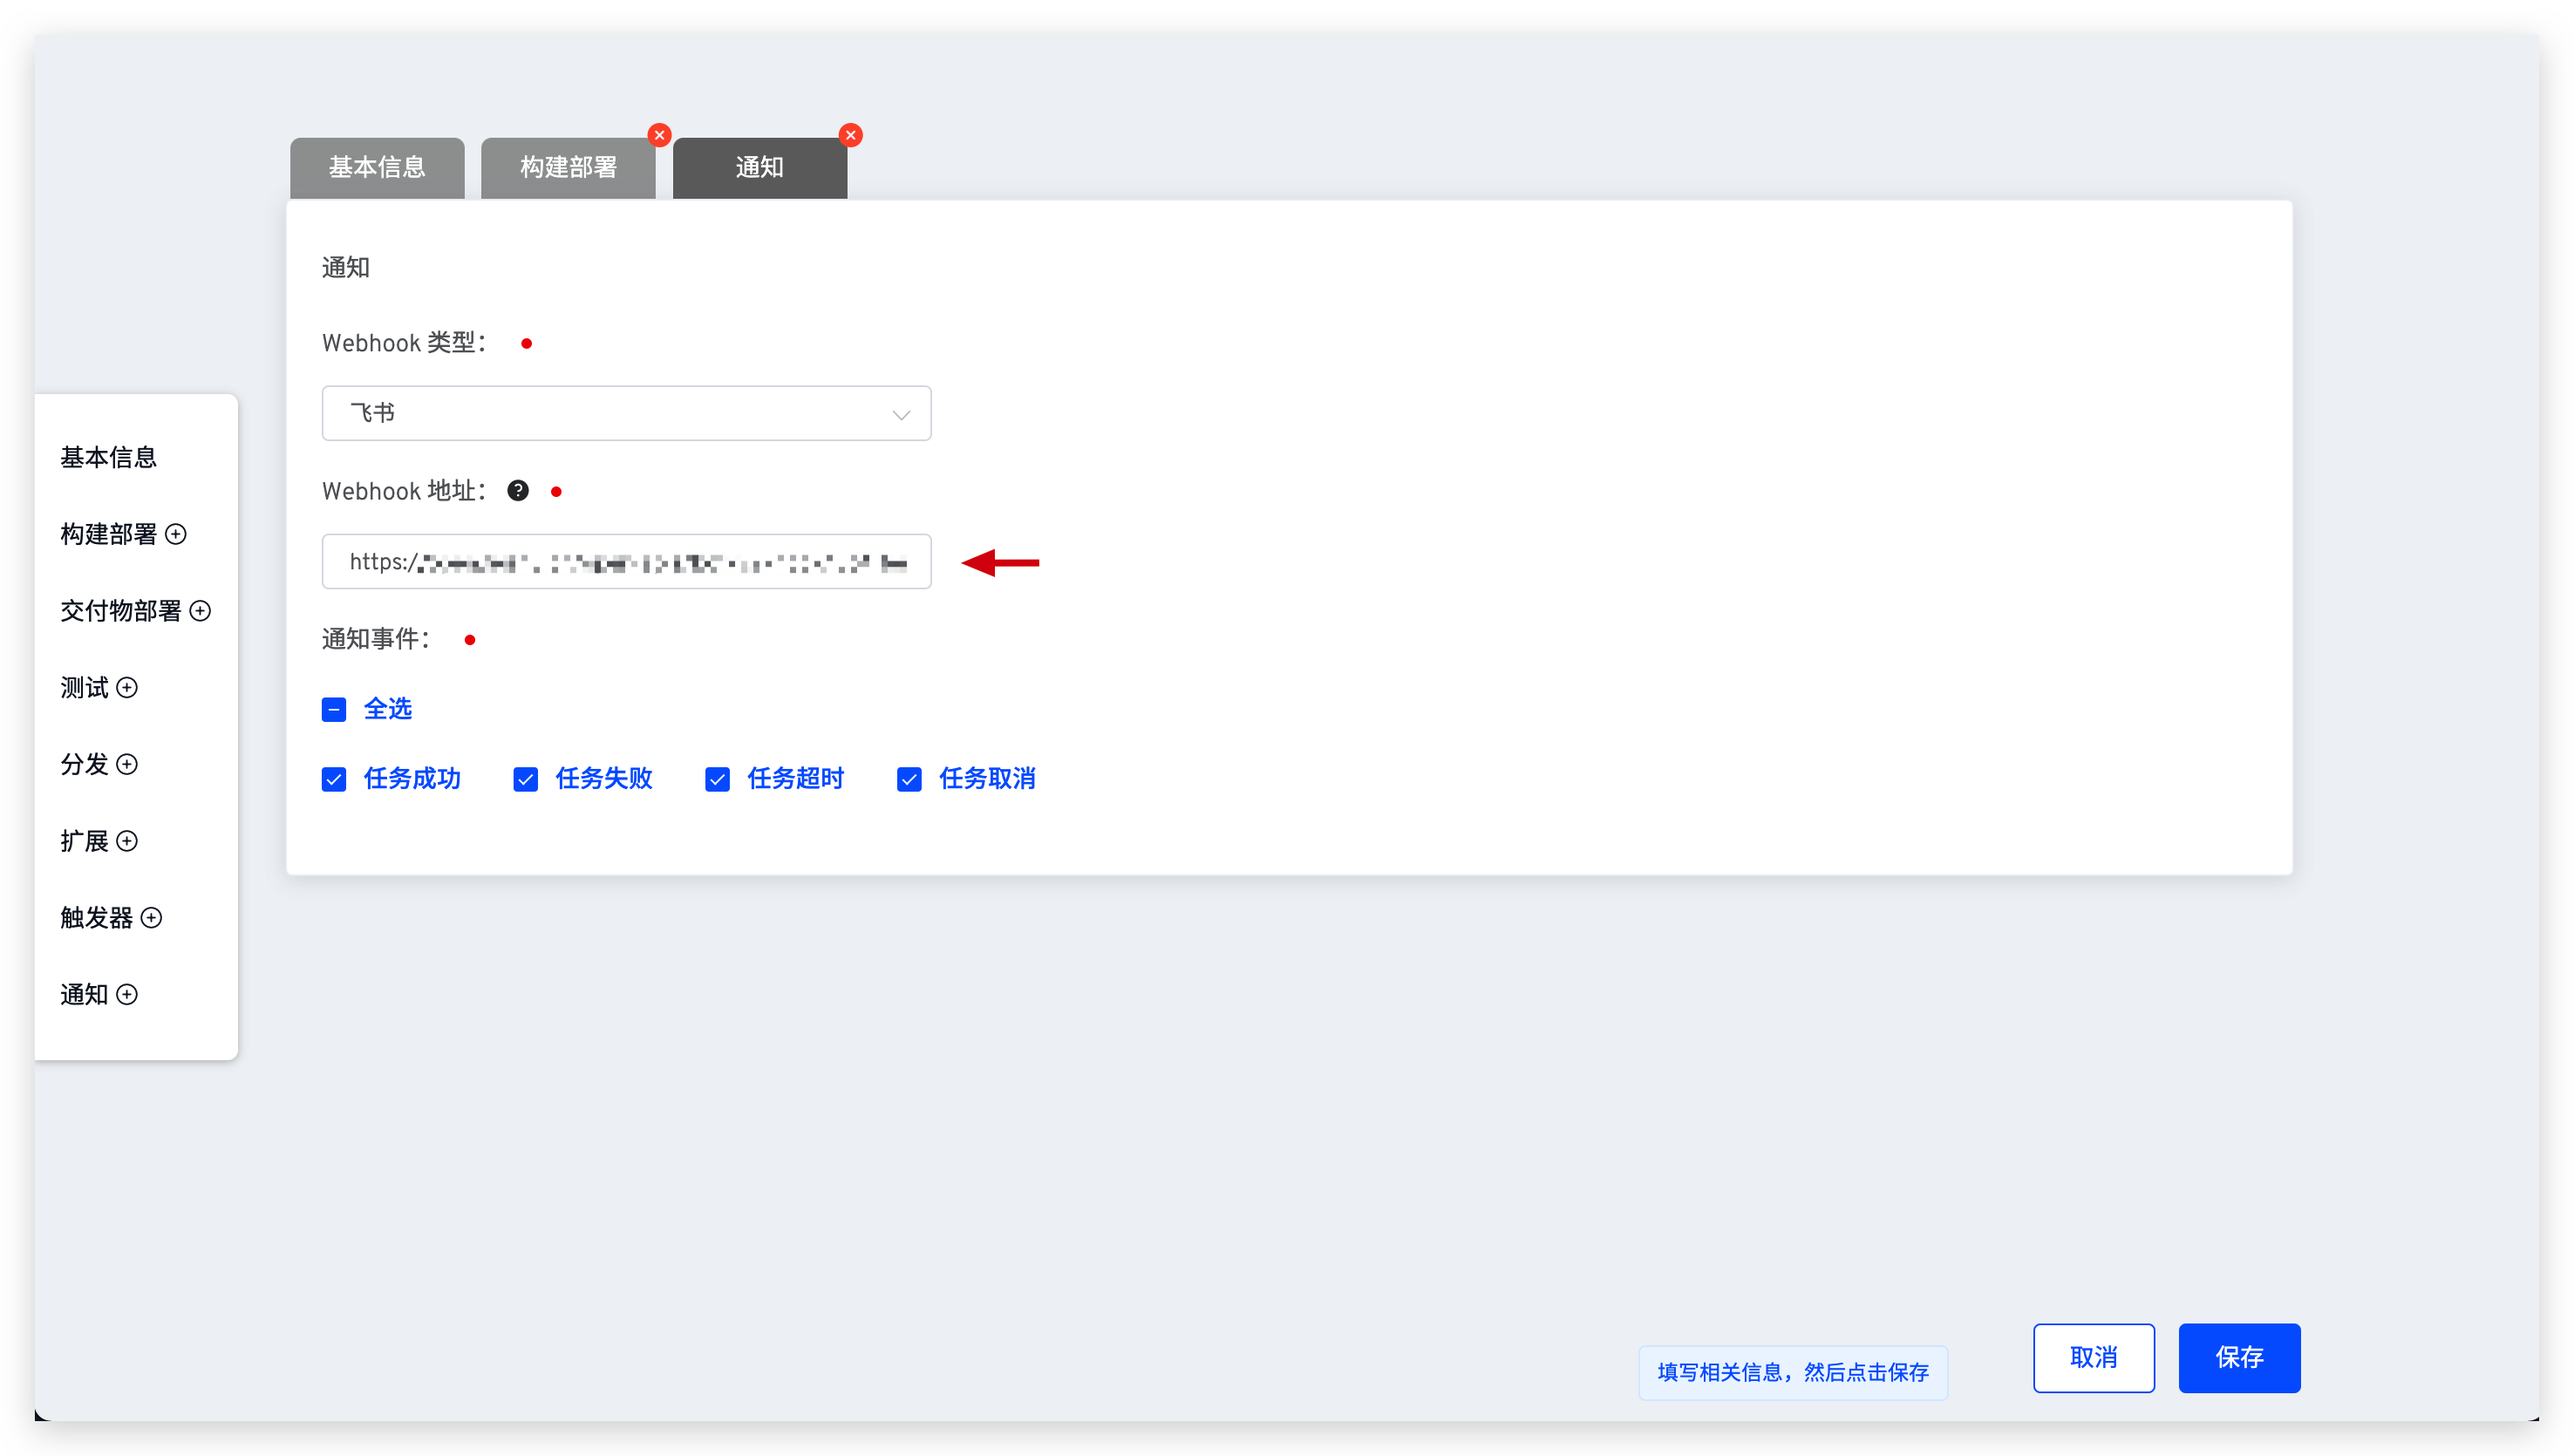
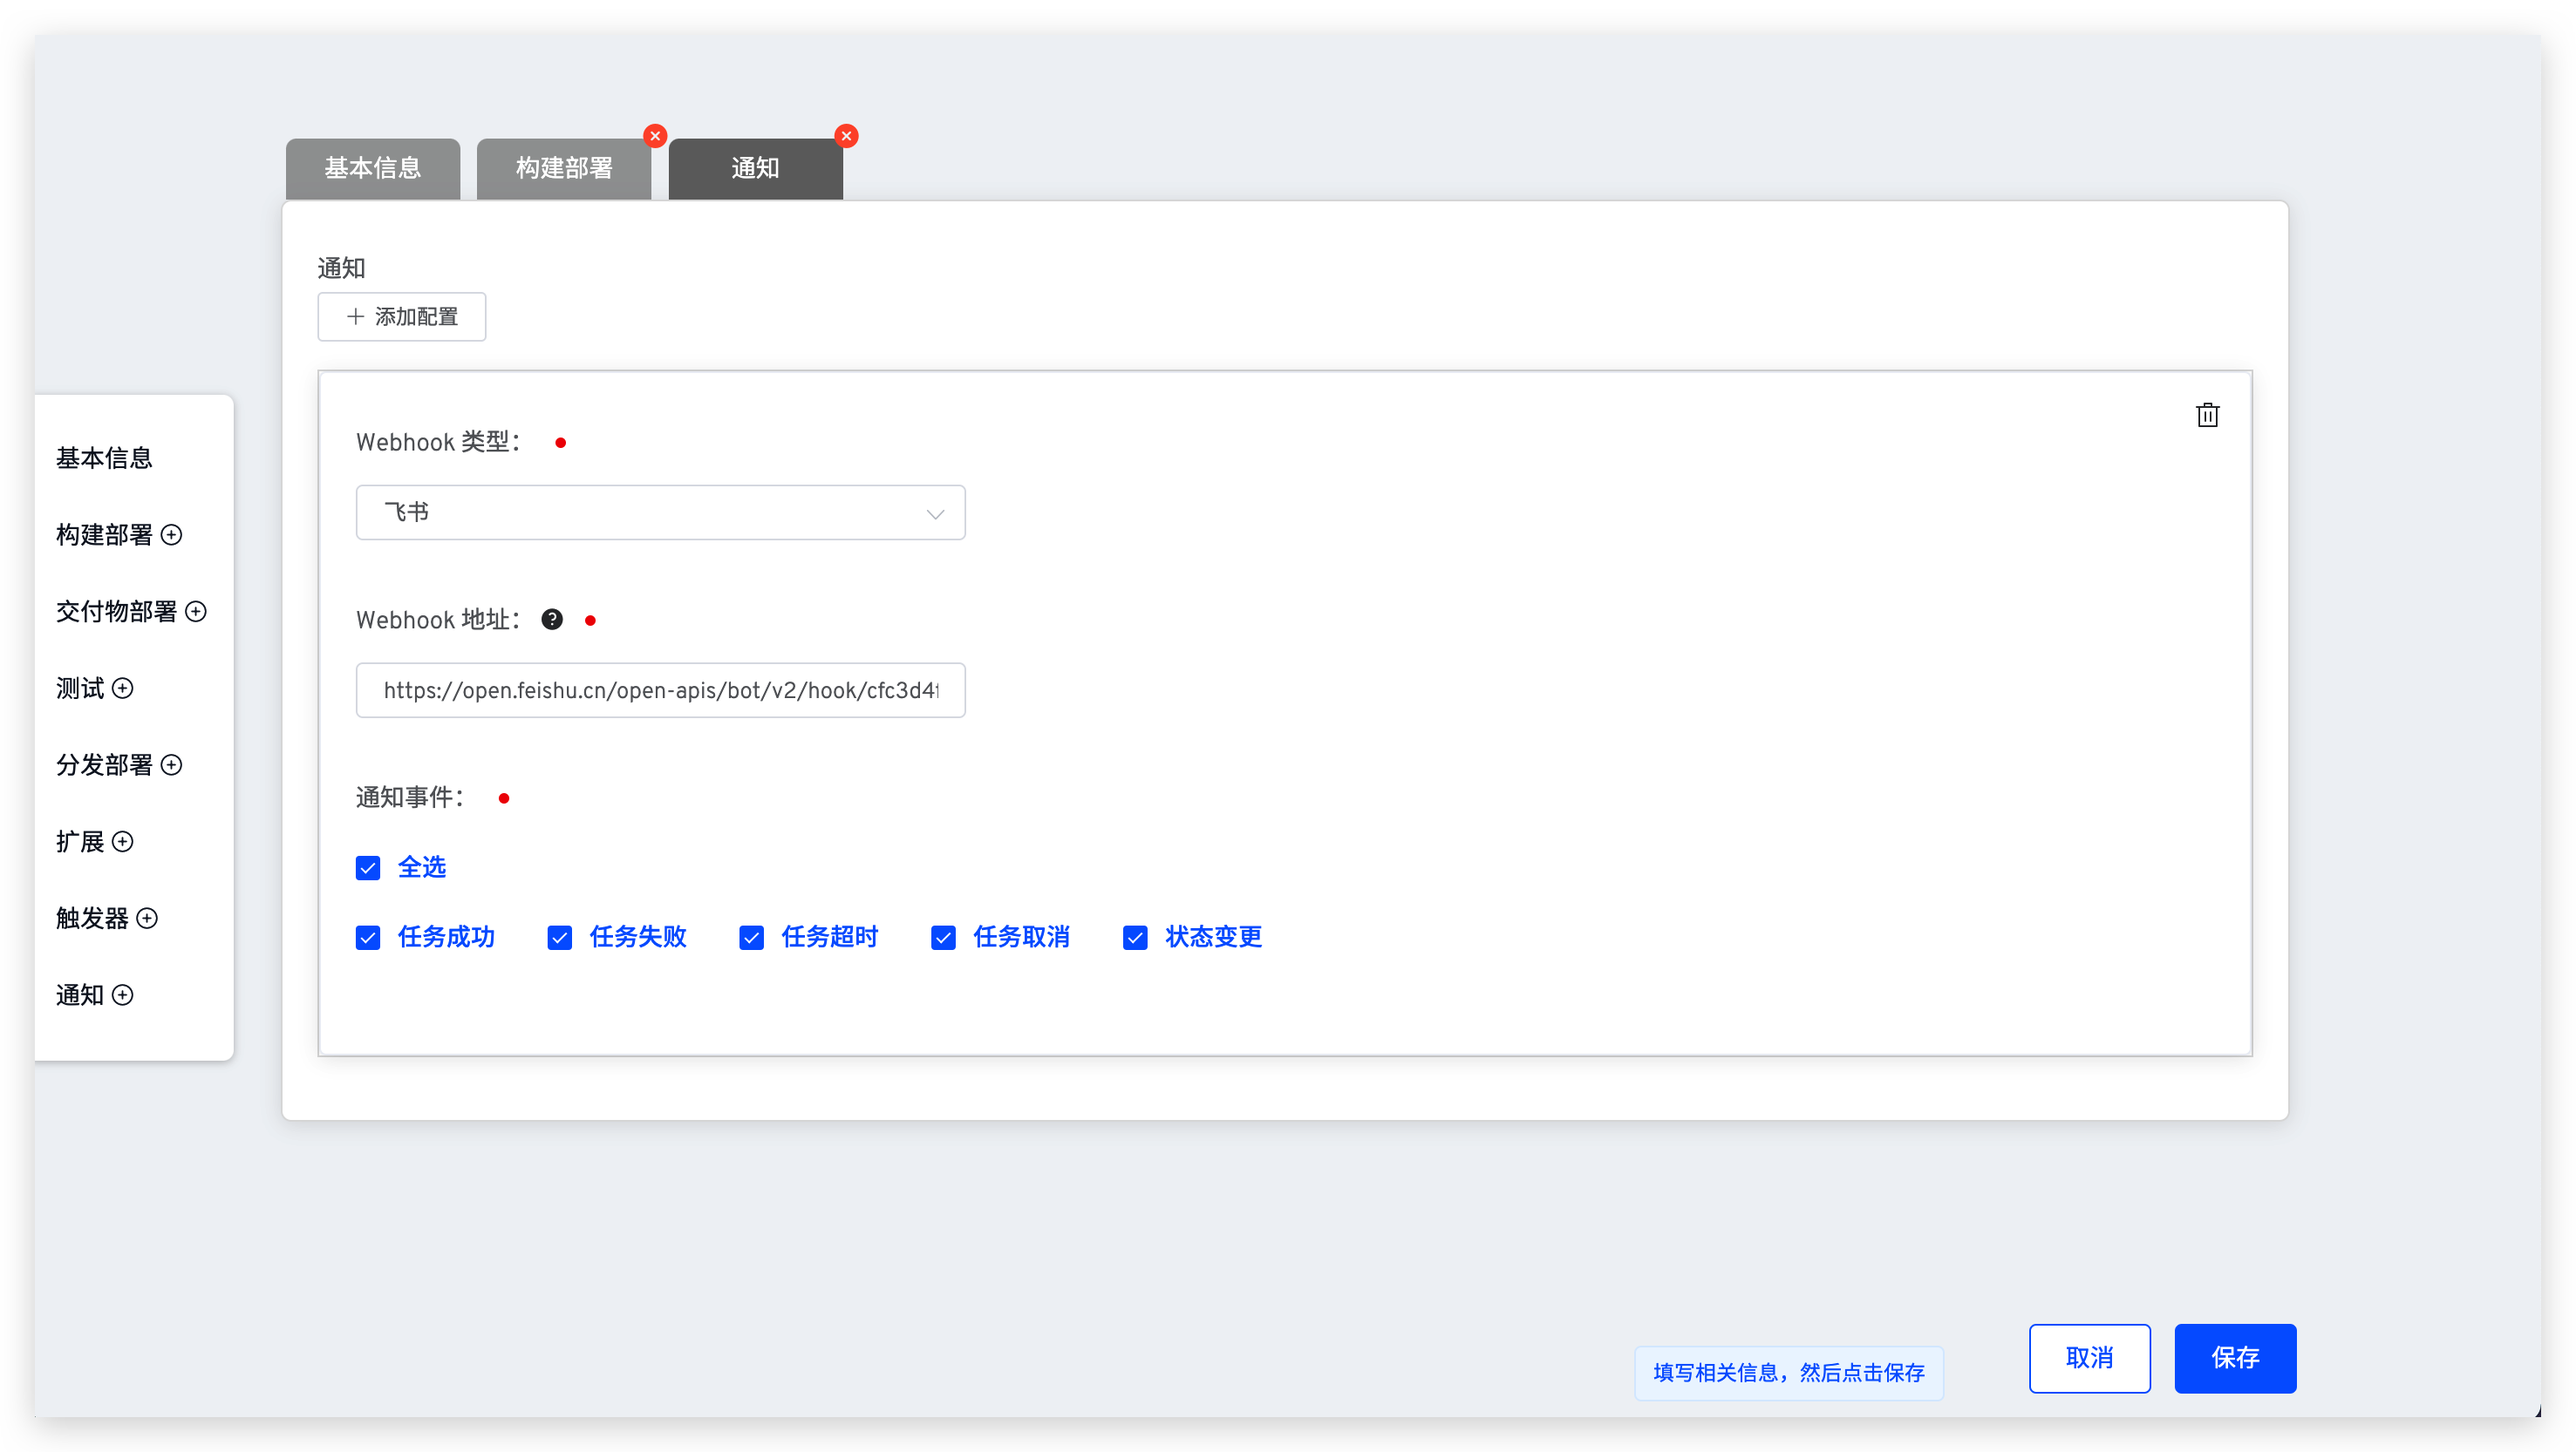
support multi IM configs

diff --git a/dev/04.项目/02.workflow.md b/dev/04.项目/02.workflow.md
@@ -303,7 +303,7 @@ cache_set:
 
 ## IM 状态通知
 
-目前支持配置工作流最终执行状态通知到企业微信、钉钉、飞书，下文将展开介绍。
+支持将工作流最终执行状态通知到企业微信、钉钉、飞书平台，且支持配置多个，下文将展开介绍。
 
 ### 企业微信
 
@@ -354,7 +354,6 @@ cache_set:
 填写机器人描述
 
 ![飞书配置](./_images/lark_add_bot_2.png)
-
 
 复制 Webhook 地址
 
